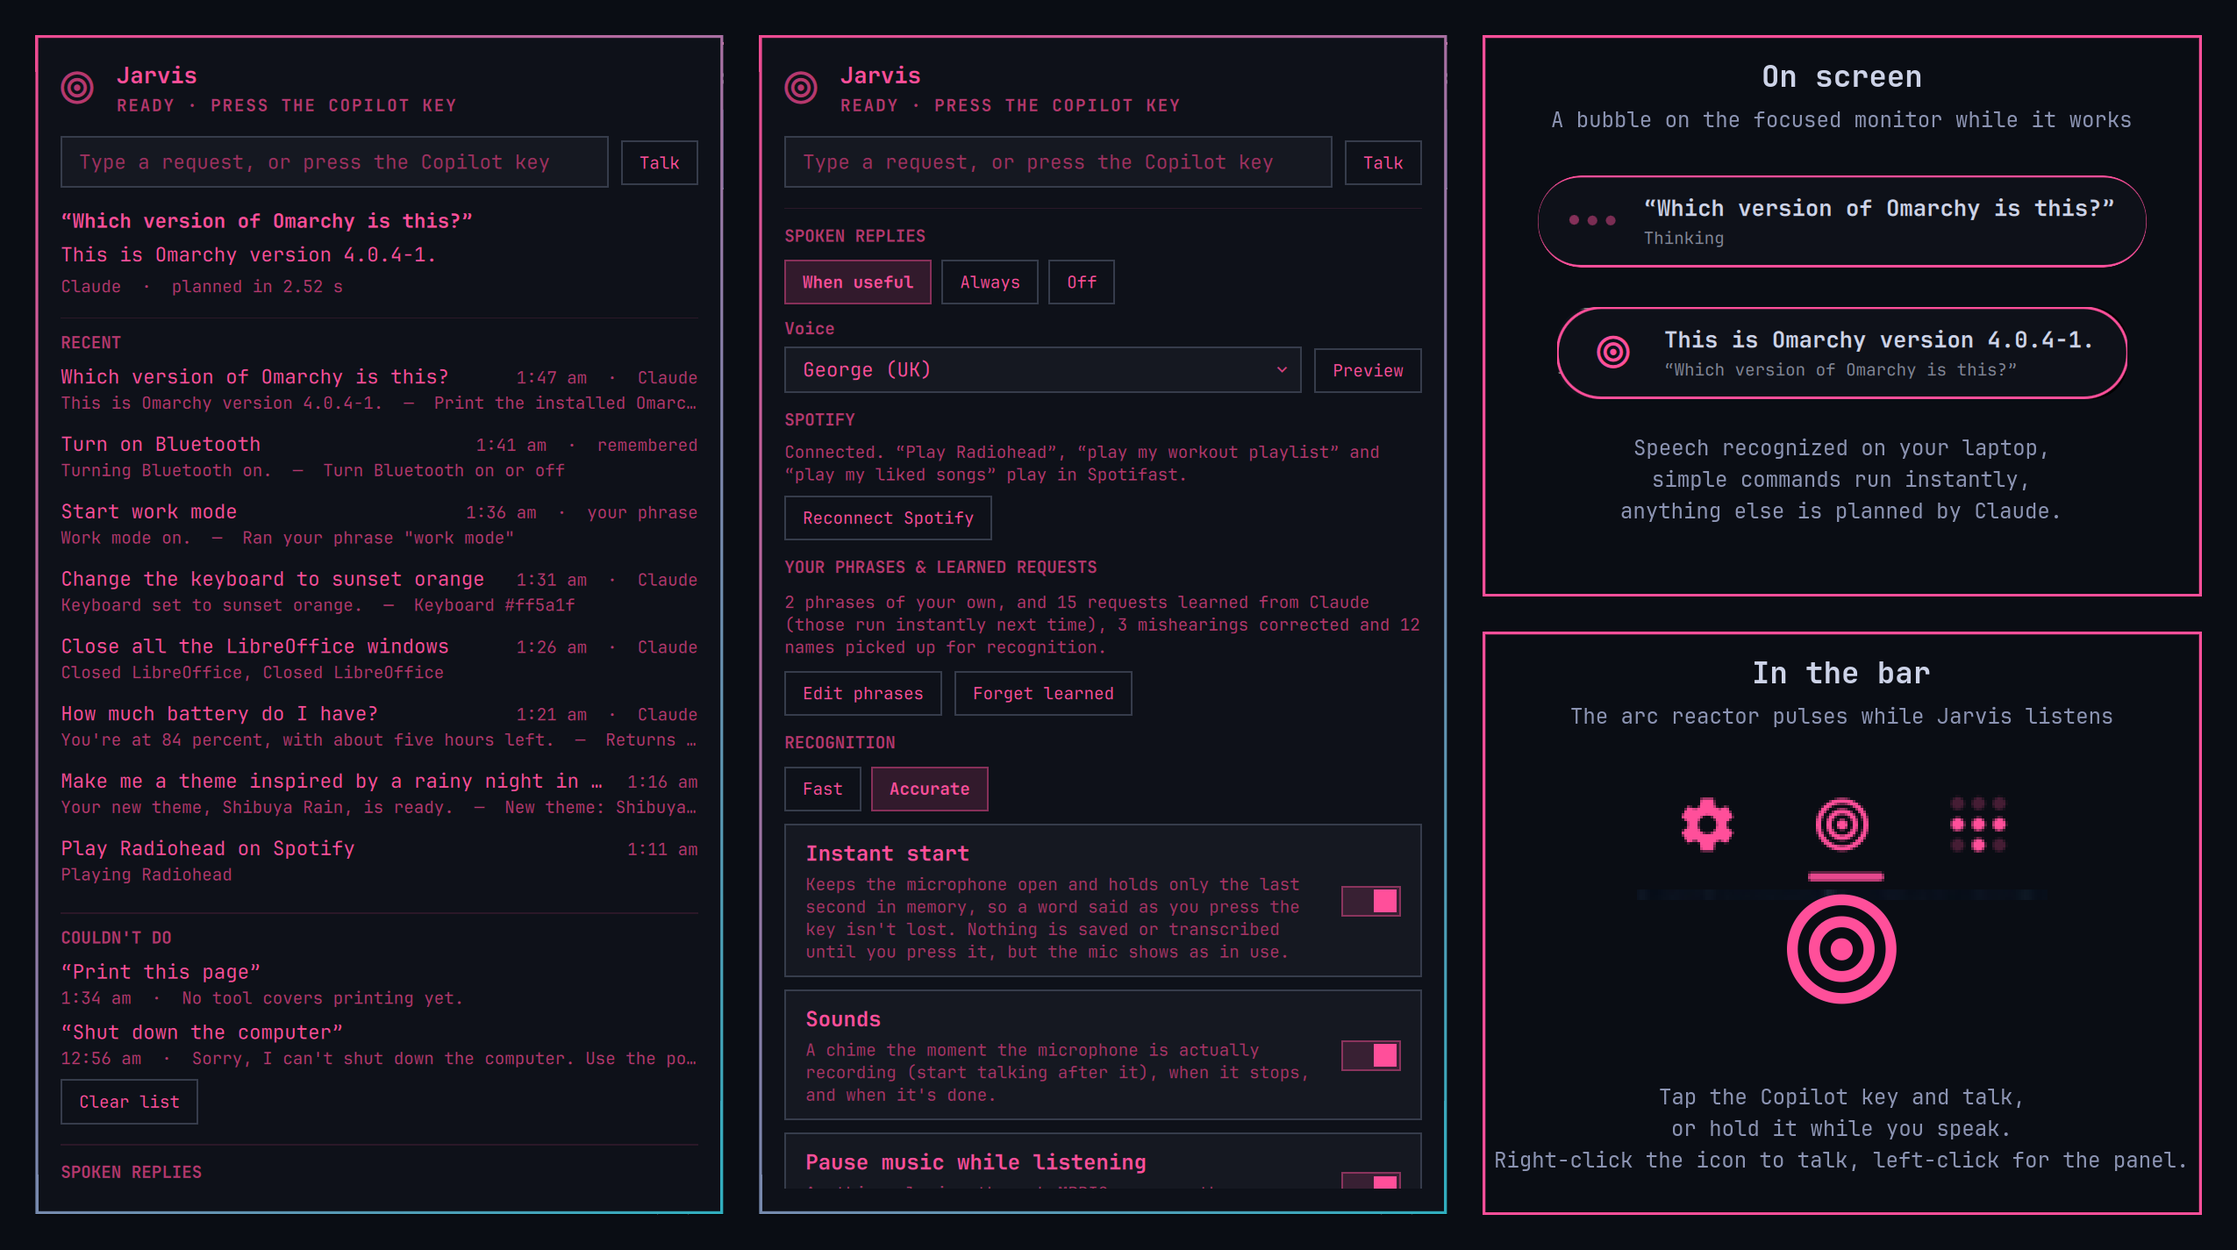
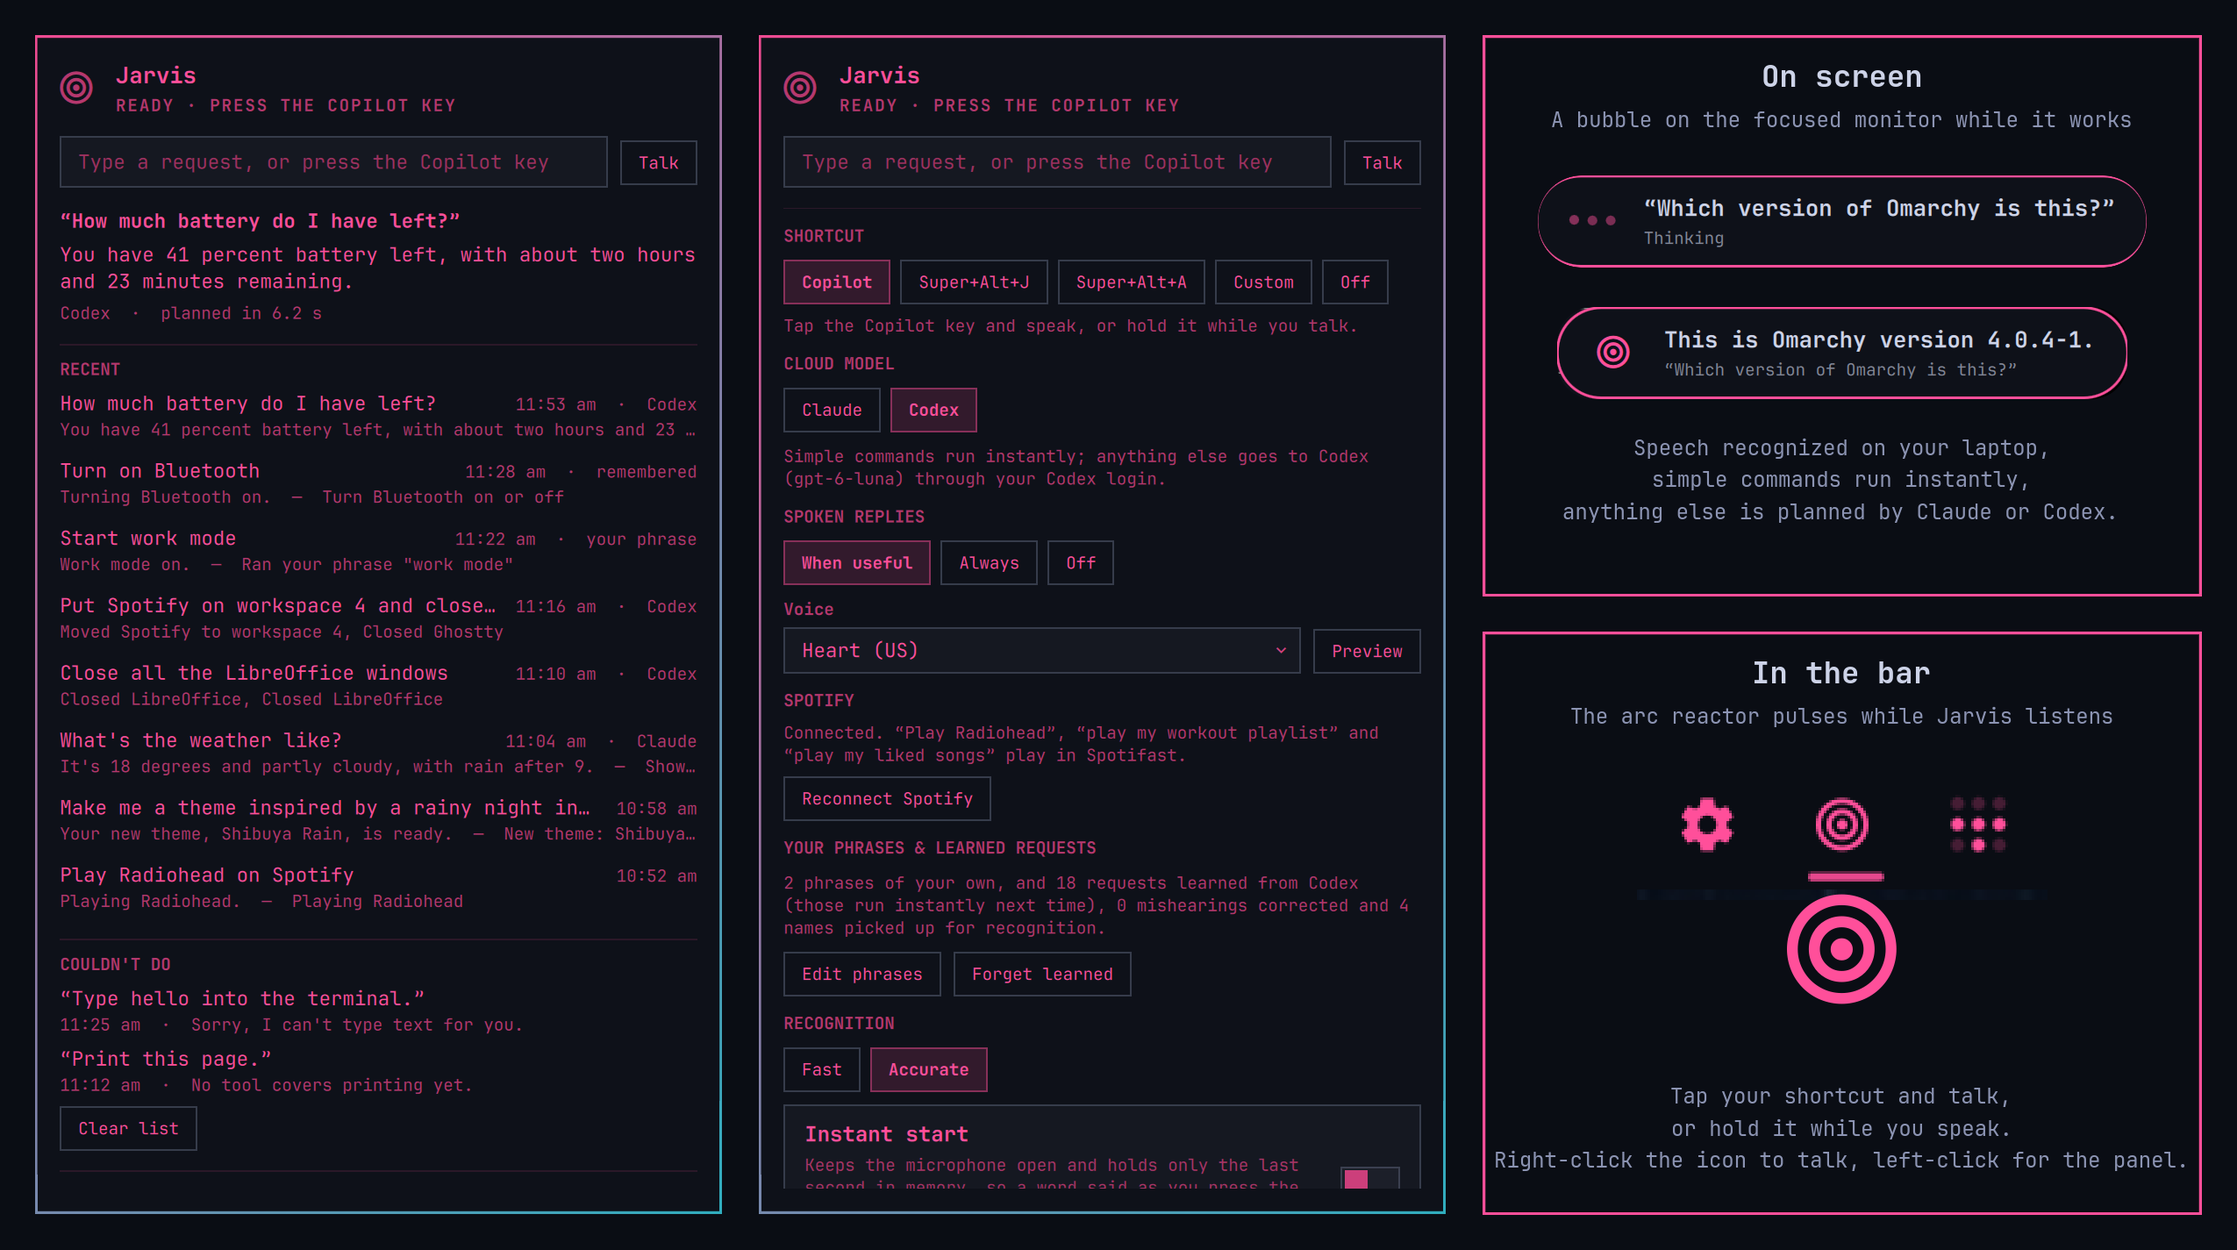
Ask which key to use, follow it in the panel, refresh README and preview
- After setup the panel asks which key should start Jarvis (Copilot key,
  Super+Alt+J, Super+Alt+A or none); existing users aren't asked. The status
  line and the input placeholder name the shortcut actually bound, or say to
  right-click the icon when there is none.
- README: shortcut-neutral wording, Codex alongside Claude, what's sent to
  Anthropic/OpenAI, uninstalling, performance, Python 3.14 requirement,
  asus-kbd-rgb marked as not public, and troubleshooting for setup, missing
  CLIs and unavailable Codex models.
- New preview with the Shortcut and Cloud model sections.

diff --git a/Panel.qml b/Panel.qml
@@ -50,8 +50,26 @@ Panel {
     if (!svc) return "SERVICE NOT LOADED"
     if (svc.lastError) return svc.lastError.toUpperCase()
     if (needsSetup && status !== "setup") return "SETUP NEEDED"
-    if (status === "idle") return "READY · PRESS THE COPILOT KEY"
+    if (status === "idle") {
+      var sc = st.shortcut || {}
+      if (sc.bound) return "READY · PRESS " + (sc.label || sc.combo).toUpperCase()
+      if (sc.off) return "READY · RIGHT-CLICK THE ICON TO TALK"
+      if (sc.conflict || sc.error) return "READY · NO SHORTCUT SET"
+      return "READY"
+    }
     return label(status).toUpperCase()
+  }
+
+  // The shortcut as it's actually bound right now, or "" when there's none.
+  function shortcutName() {
+    var sc = st.shortcut || {}
+    return sc.bound ? (sc.label || sc.combo) : ""
+  }
+
+  function chooseShortcut(v) {
+    if (!svc) return
+    if (v === (config.shortcut || "copilot")) svc.setConfig("shortcutChosen", true)
+    else svc.setConfig("shortcut", v)    // the daemon marks it chosen too
   }
 
   function clock(t) { return Qt.formatTime(new Date(t * 1000), "h:mm ap") }
@@ -163,7 +181,8 @@ Panel {
             TextField {
               id: input
               width: parent.width - talkButton.width - parent.spacing
-              placeholderText: "Type a request, or press the Copilot key"
+              placeholderText: root.shortcutName() ? "Type a request, or press " + root.shortcutName()
+                                                   : "Type a request, or press Talk"
               foreground: root.fg
               font.family: root.fontFamily
               onAccepted: {
@@ -186,6 +205,59 @@ Panel {
                 if (!root.svc) return
                 if (root.busy && root.status !== "listening") root.svc.cancel()
                 else root.talk()
+              }
+            }
+          }
+
+          // ---------- first run: which key starts Jarvis ----------
+          Column {
+            visible: !!root.svc && !root.needsSetup && ["starting", "stopped", "setup"].indexOf(root.status) < 0
+                     && !!root.st.shortcut && root.config.shortcutChosen !== true
+            width: parent.width
+            spacing: Style.space(8)
+
+            Text {
+              width: parent.width
+              textFormat: Text.PlainText
+              text: "Which key should start Jarvis?"
+              color: root.fg
+              font.family: root.fontFamily
+              font.pixelSize: Style.font.body
+              wrapMode: Text.WordWrap
+            }
+
+            Text {
+              width: parent.width
+              textFormat: Text.PlainText
+              text: "Use the Copilot key if your keyboard has one (on most new laptops it's next to the right Alt). "
+                + "You can change it any time under Shortcut below, including to a combination of your own."
+              color: root.dim
+              font.family: root.fontFamily
+              font.pixelSize: Style.font.caption
+              wrapMode: Text.WordWrap
+            }
+
+            Flow {
+              width: parent.width
+              spacing: Style.space(8)
+
+              Repeater {
+                model: [
+                  { value: "copilot", label: "Copilot key", tip: "Super+Shift+F23, which the Copilot key sends" },
+                  { value: "SUPER + ALT + J", label: "Super+Alt+J", tip: "" },
+                  { value: "SUPER + ALT + A", label: "Super+Alt+A", tip: "" },
+                  { value: "off", label: "No key", tip: "Right-click the bar icon or press Talk instead" }
+                ]
+                delegate: Button {
+                  required property var modelData
+                  text: modelData.label
+                  tooltipText: modelData.tip
+                  foreground: root.fg
+                  fontFamily: root.fontFamily
+                  fontSize: Style.font.caption
+                  bordered: true
+                  onClicked: root.chooseShortcut(modelData.value)
+                }
               }
             }
           }

diff --git a/lib/jarvis.py b/lib/jarvis.py
@@ -104,6 +104,7 @@ DEFAULTS = {
     "codexThemeModel": "gpt-6.1-sol",
     "shortcut": "copilot",    # copilot | off | a Hyprland combo like "SUPER + ALT + J"
     "shortcutForce": "",      # a combo you chose to take over from another binding
+    "shortcutChosen": False,  # the panel asks which key to use until this is set
     # A redirect URI registered in your Spotify developer app (Spotifast's own one works).
     "spotifyRedirect": "http://127.0.0.1:8989/login",
 }
@@ -976,6 +977,12 @@ def parse_combo(text):
     return " + ".join(mods + [key]), sum({MODMASK[m] for m in mods}), key
 
 
+def combo_label(combo):
+    """'SUPER + ALT + J' -> 'Super+Alt+J'."""
+    return "+".join(p if len(p) == 1 or p.startswith("code:") else p.capitalize()
+                    for p in combo.split(" + "))
+
+
 # ---------------------------------------------------------------- built-in matcher
 
 NUMBER_WORDS = {"one": 1, "won": 1, "two": 2, "to": 2, "too": 2, "three": 3, "four": 4, "for": 4,
@@ -1636,6 +1643,10 @@ class Daemon:
         self.lock = threading.RLock()
         self.cfg = dict(DEFAULTS, **load_json(CONFIG_FILE, {}))
         self.history = load_json(HISTORY_FILE, [])
+        if not self.cfg["shortcutChosen"] and (self.history or "shortcut" in load_json(CONFIG_FILE, {})):
+            # Already in use before the first-run question existed: don't ask.
+            self.cfg["shortcutChosen"] = True
+            save_json(CONFIG_FILE, {k: v for k, v in self.cfg.items() if v != DEFAULTS[k]})
         self.apps = Apps()
         self.catalog = Catalog()
         self.spotify_api = SpotifyAPI()
@@ -1754,6 +1765,8 @@ class Daemon:
             return {"ok": True}
         if cmd == "config":
             changed = {k: v for k, v in msg.items() if k in DEFAULTS}
+            if "shortcut" in changed:
+                changed["shortcutChosen"] = True
             with self.lock:
                 self.cfg.update(changed)
                 save_json(CONFIG_FILE, {k: v for k, v in self.cfg.items() if v != DEFAULTS[k]})
@@ -2501,7 +2514,7 @@ class Daemon:
                 self.shortcut_state = {"combo": v, "bound": False, "error": str(e)}
                 self.publish()
                 return
-            label = "the Copilot key" if v == "copilot" else combo
+            label = "the Copilot key" if v == "copilot" else combo_label(combo)
             same = [b for b in (hypr("binds") or []) if b.get("modmask") == mm and str(b.get("key", "")).upper() == key.upper()]
             ours = any(b.get("description") in ("Jarvis", "Voice control") for b in same)
             foreign = [b for b in same if b.get("description") not in ("Jarvis", "Voice control")

diff --git a/README.md b/README.md
@@ -1,7 +1,7 @@
 # Jarvis (grivera.jarvis)
 
-**A voice assistant for Omarchy.** Press the Copilot key, say what you want, and
-Jarvis does it: open and arrange apps, switch workspaces, play music, change
+**A voice assistant for Omarchy.** Press the Copilot key (or any shortcut you
+pick), say what you want, and Jarvis does it: open and arrange apps, switch workspaces, play music, change
 settings, answer questions, and even design you a new theme.
 
 Speech recognition and Jarvis's voice run locally on your laptop. Simple
@@ -28,12 +28,14 @@ the arc reactor icon to your bar. Then:
    (about 1.5 GB, in `~/.local/share/grivera-jarvis/`). A few minutes, once.
    The Python packages are the exact tested versions in `lib/requirements.txt`,
    and every model file is checked against a SHA-256 before it's used.
-2. **Pick a shortcut.** The Copilot key works right away: Jarvis binds it in
-   Hyprland itself (no config files touched) and takes it over from Omarchy's
-   menu. No Copilot key? Choose Super+Alt+J, Super+Alt+A or any combination
-   under **Shortcut** in the panel. Jarvis tells you if a combination is
-   already used and by what, and re-applies the binding whenever Hyprland
-   reloads. You can also right-click the bar icon to talk, or type a request.
+2. **Pick a shortcut.** After setup the panel asks which key should start
+   Jarvis: the Copilot key, Super+Alt+J, Super+Alt+A, or no key at all
+   (right-click the bar icon or press **Talk** instead). Any other combination
+   can be set under **Shortcut**, and the panel always shows the key in use.
+   Jarvis binds it in Hyprland itself (no config files touched), tells you if
+   a combination is already used and by what, and re-applies the binding
+   whenever Hyprland reloads. Until you choose, the Copilot key works, taking
+   it over from Omarchy's menu. You can always type a request instead.
 3. **Make sure Claude Code or Codex is installed and signed in** (`claude` or
    `codex` on your PATH). Jarvis uses it, with no tools, to plan requests the
    built-in commands don't cover: Claude Code with the fast Haiku model (about
@@ -42,12 +44,17 @@ the arc reactor icon to your bar. Then:
    API key works as is.
 
 To update or remove it: `omarchy plugin update grivera.jarvis`,
-`omarchy plugin remove grivera.jarvis`.
+`omarchy plugin remove grivera.jarvis`. Removing the plugin leaves its data
+behind; to delete that too (about 1.5 GB, mostly models):
+
+```
+rm -rf ~/.local/share/grivera-jarvis ~/.local/state/grivera-jarvis ~/.config/grivera-jarvis
+```
 
 ## What it can do
 
 **Talk to your desktop**
-- Tap the Copilot key and speak; Jarvis stops when you stop. Or hold the key
+- Tap your shortcut and speak; Jarvis stops when you stop. Or hold the key
   while you talk and let go to send. Press it again to interrupt.
 - Say "Hey Jarvis, …" if you like: the name is understood and ignored.
 - A bubble at the bottom of the screen shows what it heard, that it's
@@ -61,7 +68,7 @@ To update or remove it: `omarchy plugin update grivera.jarvis`,
 
 **All of Omarchy**
 - Jarvis reads Omarchy's own command catalog (`omarchy commands --json`), so it
-  can run 135 of its commands: screen recording, screenshots and OCR, Bluetooth,
+  can run over a hundred of its commands: screen recording, screenshots and OCR, Bluetooth,
   night light, do not disturb, power profiles, fonts, themes and backgrounds,
   menus and switchers, keyboard backlight, brightness, audio outputs,
   reminders, webapps, network status and speed tests, and more.
@@ -86,13 +93,13 @@ To update or remove it: `omarchy plugin update grivera.jarvis`,
 **Make things**
 - "Make me a new background of a misty pine forest at dawn": Codex paints a
   wallpaper, saves it with your theme's backgrounds and sets it.
-- "Make me a theme inspired by a rainy night in Tokyo": Claude (or Codex,
-  if it's your planner) designs a full
-  Omarchy theme (palette, icons, bar and menu colors) and Codex paints a
-  matching wallpaper. It's saved to `~/.config/omarchy/themes/` and applied,
+- "Make me a theme inspired by a rainy night in Tokyo": Claude (or Codex, if
+  it's your cloud model) designs a full Omarchy theme (palette, icons, bar and
+  menu colors) and Codex paints a matching wallpaper. It's saved to `~/.config/omarchy/themes/` and applied,
   about a minute later.
-- "Change the keyboard to sunset orange" on laptops with RGB keyboards (needs
-  the `asus-kbd-rgb` tool; see Requirements).
+- "Change the keyboard to sunset orange" on ASUS laptops with RGB keyboards.
+  This needs the `asus-kbd-rgb` tool, which isn't public yet; without it the
+  request is simply declined.
 
 **Your own commands**
 - Add phrases in `~/.config/grivera-jarvis/phrases.toml` (panel: Edit phrases):
@@ -111,7 +118,7 @@ To update or remove it: `omarchy plugin update grivera.jarvis`,
   Your phrases are checked before anything else and reload when you save.
 
 **It gets better as you use it**
-- **Learned requests**: when Claude handles something successfully, Jarvis
+- **Learned requests**: when Claude or Codex handles something successfully, Jarvis
   remembers the plan, so the next time you say it, it runs instantly.
 - **Corrections**: "no, I said Chromium" right after a mishearing fixes the
   request and teaches Jarvis that "card running" means Chromium from then on.
@@ -143,28 +150,30 @@ To update or remove it: `omarchy plugin update grivera.jarvis`,
 ## How it works
 
 ```
-Copilot key ─► jarvis press ─► daemon: microphone (PipeWire) + Silero VAD
+your shortcut ─► jarvis press ─► daemon: microphone (PipeWire) + Silero VAD
                                    │
                        faster-whisper, on your laptop (~0.7 s)
                                    │
    your phrases ─► built-in matcher ─► learned requests ─► Claude (claude -p, Haiku)
      (instant)       (instant)           (instant)          or Codex (codex exec, Luna)
-                                                            plans with tools only, 3-5 s
+                                                            returns a plan, no tools, 3-5 s
                                    │
        actions, each checked: real window addresses, installed apps,
        http(s) URLs, Omarchy commands by safety tier
                                    │
-      a chime, or a spoken reply in Kokoro's "George" voice (local), + the bubble
+      a chime, or a spoken reply in a Kokoro voice (local), + the bubble
 ```
 
 Requests take about 1 second when handled locally, 2 to 4 seconds when
-Claude plans them and 4 to 6 seconds with Codex.
+Claude plans them and 4 to 6 seconds with Codex. Speech recognition runs on
+the CPU; these times are from a Ryzen AI 7 350 laptop, so older machines will
+be slower (the **Fast** recognition setting helps).
 
 ## Safety
 
 Neither Claude nor Codex runs anything itself (Codex runs with its shell and
-other agent tools turned off). It returns a plan made of named actions,
-and Jarvis checks each one before running it, without a shell:
+other agent tools turned off). Each only returns a plan made of named actions,
+and Jarvis checks every action before running it, without a shell:
 
 - **Allowed**: window and app control, media, toggles, capture, menus,
   brightness, audio, theme and fonts, status questions.
@@ -181,8 +190,13 @@ Only your own phrases run shell commands, and they're yours to write.
 
 - Your voice is recognized on your laptop and never uploaded. Jarvis's voice
   is generated locally too.
-- When a request goes to Claude or Codex, the text of what you said, your open window
-  titles and installed app names are sent along so it can plan.
+- When a request goes to Claude or Codex, the text of what you said, your open
+  window titles and installed app names are sent along so it can plan. For
+  questions like "how much battery do I have?", the output of the commands
+  that answer it is sent too, so the answer can be phrased. This goes to
+  Anthropic or OpenAI under your own account, through the `claude` or `codex`
+  CLI, and their usual terms apply. Requests handled locally never leave your
+  laptop.
 - **Instant start** (off by default; turn it on in the panel) keeps the
   microphone open with only the last second held in memory, so a word said
   as you press the key isn't lost. Nothing is saved or transcribed until you
@@ -194,7 +208,8 @@ Only your own phrases run shell commands, and they're yours to write.
 
 ## Requirements
 
-- Omarchy 4 (Hyprland 0.56 with the Lua config), PipeWire, Python 3.
+- Omarchy 4 (Hyprland 0.56 with the Lua config), PipeWire, and Omarchy's
+  Python 3.14 on x86_64 (setup installs exact package versions built for it).
 - [Claude Code](https://claude.com/claude-code) or the
   [Codex CLI](https://github.com/openai/codex) for planning, signed in.
 - Optional:
@@ -207,7 +222,7 @@ Only your own phrases run shell commands, and they're yours to write.
     then click **Connect Spotify** in the panel once.
   - cliamp, for internet radio.
   - `asus-kbd-rgb` on your PATH for keyboard colors (ASUS Vivobook-style HID
-    LampArray keyboards).
+    LampArray keyboards). It isn't published yet.
 
 ## Settings
 
@@ -264,6 +279,16 @@ The CLI is `~/.config/omarchy/plugins/grivera.jarvis/bin/jarvis`.
   …") and it learns.
 - **The shortcut does nothing**: check **Shortcut** in the panel; it shows whether
   the key is bound or which binding is in the way.
+- **Setup fails while installing packages**: usually a newer system Python
+  than the pinned packages support (after an Arch update). Delete
+  `~/.local/share/grivera-jarvis/venv`, update the plugin and run setup again;
+  if it still fails, open an issue with the Python version.
+- **"I can't find Claude Code or Codex"**: Jarvis looks on your PATH and in
+  the usual install folders (`~/.local/bin`, mise). Run `which claude` or
+  `which codex` in a terminal, and sign in once with `claude` or `codex`.
+- **Codex says a model isn't available**: your plan may not include the
+  default models. Set `codexModel` (and `codexThemeModel`) in `config.json`
+  to one listed by Codex's `/model` command.
 - **Panel changes don't show after an update**: run `omarchy restart shell`.
 
 ## Files
